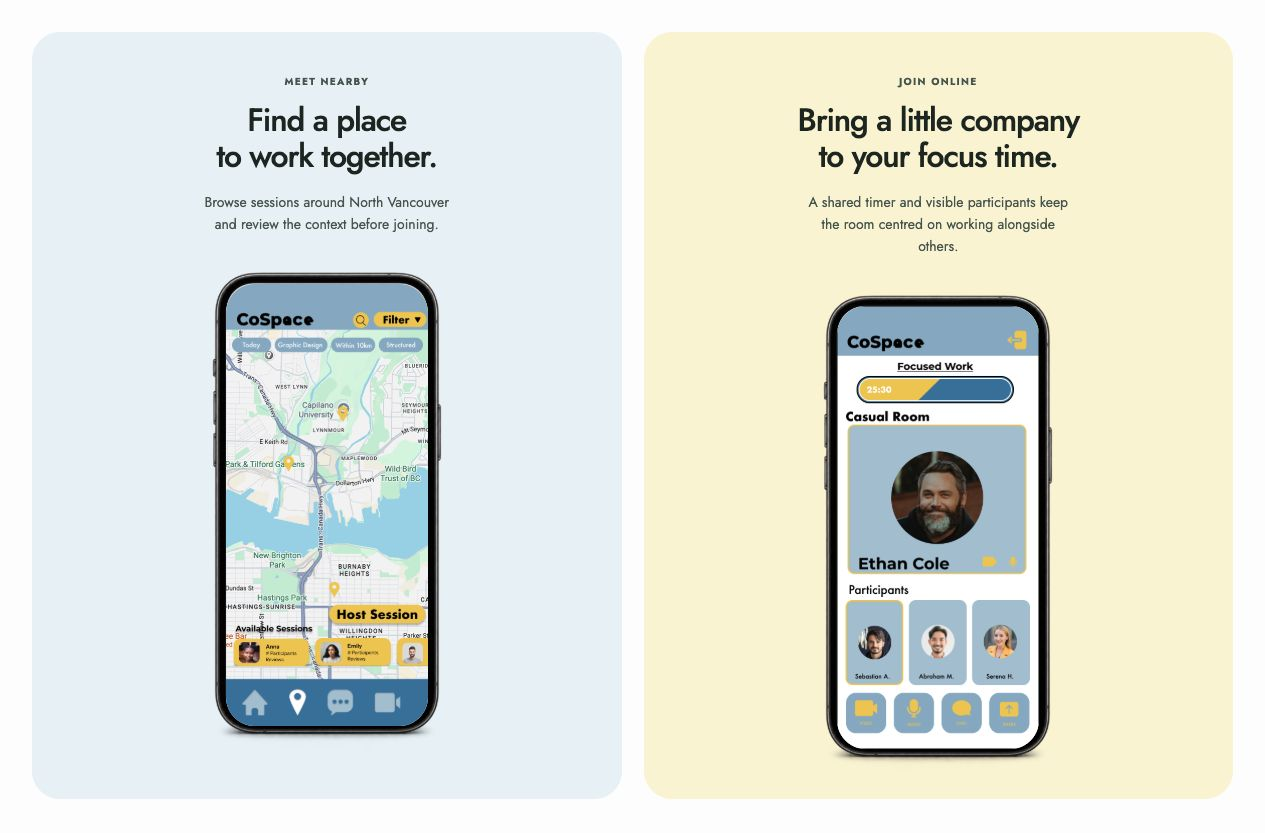
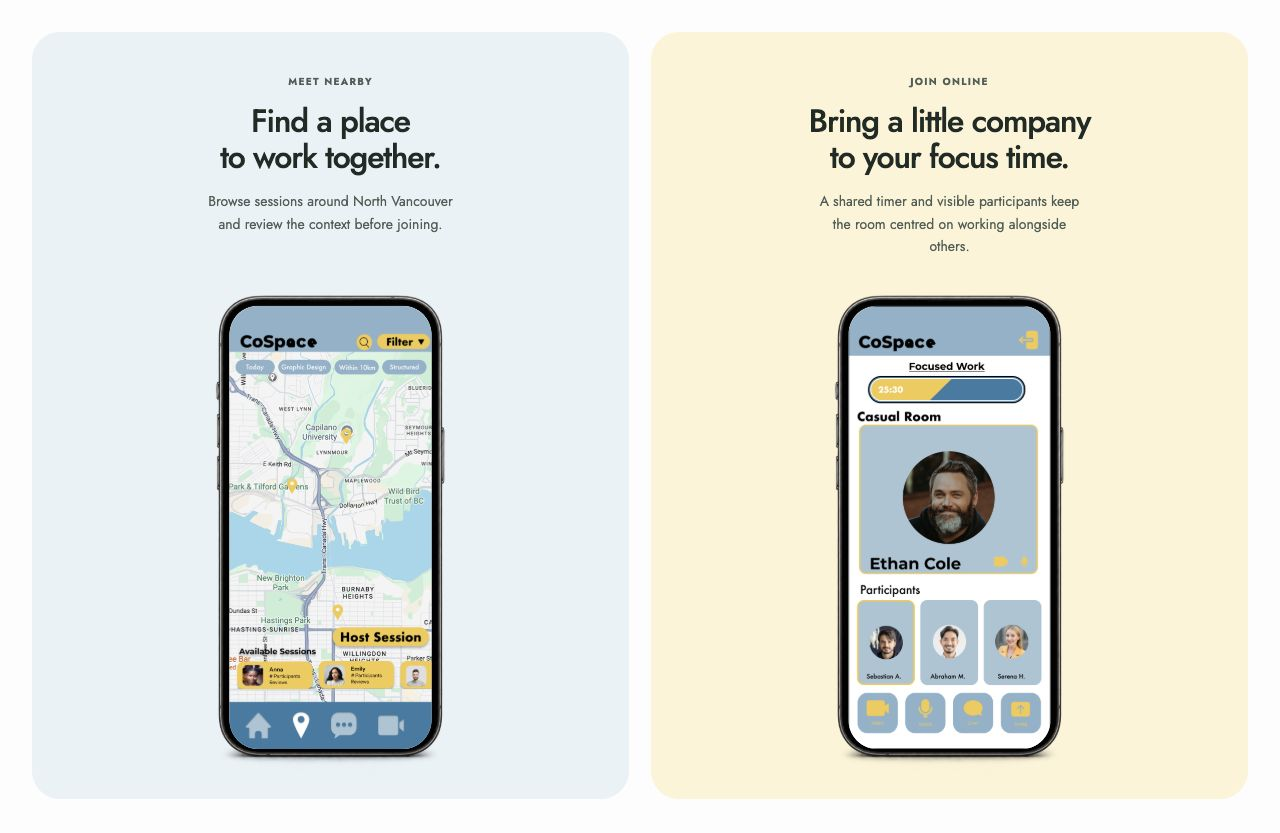
Align discovery feature mockups across both cards

diff --git a/previews/cospace/cospace.css b/previews/cospace/cospace.css
@@ -73,7 +73,7 @@ html:has(.cospace-page) { scroll-behavior:auto; }
 .cs-note { font-size:12px!important; line-height:1.6!important; color:var(--cs-muted); }
 .cs-principles+.cs-note { margin-top:32px; }
 .cs-duo { display:grid; grid-template-columns:1fr 1fr; gap:22px; padding:0 0 2px; }
-.cs-feature { padding:42px 40px 24px; border-radius:28px; text-align:center; background:#e9f2f7; min-width:0; }
+.cs-feature { display:grid; grid-template-rows:1fr auto auto; padding:42px 40px 24px; border-radius:28px; text-align:center; background:#e9f2f7; min-width:0; }
 .cs-feature--virtual { background:#fcf4d6; }
 .cs-feature .cs-eyebrow { display:block; margin-bottom:14px; font-size:10px; }
 .cs-feature h3 { font-size:32px; line-height:1.12; letter-spacing:-.035em; }

diff --git a/previews/cospace/evidence/qa.md b/previews/cospace/evidence/qa.md
@@ -2,6 +2,8 @@
 
 Checked October 29, 2026.
 
+Discovery card alignment, October 30: the two feature cards use equal flexible caption rows, keeping the phone and enlargement caption rows aligned when descriptions wrap differently. Verified equal phone top/bottom coordinates and caption tops on desktop, equal phone positions at 900px, and normal stacking without horizontal overflow at 390px. Refreshed the discovery mockup export.
+
 ## October 30 spacing revision
 
 - Matched the visible right handset edge to the 48px left copy inset at desktop width. The right-hand positioning includes the extra width created by its rotation and the transparent margins of the generated hardware image.
